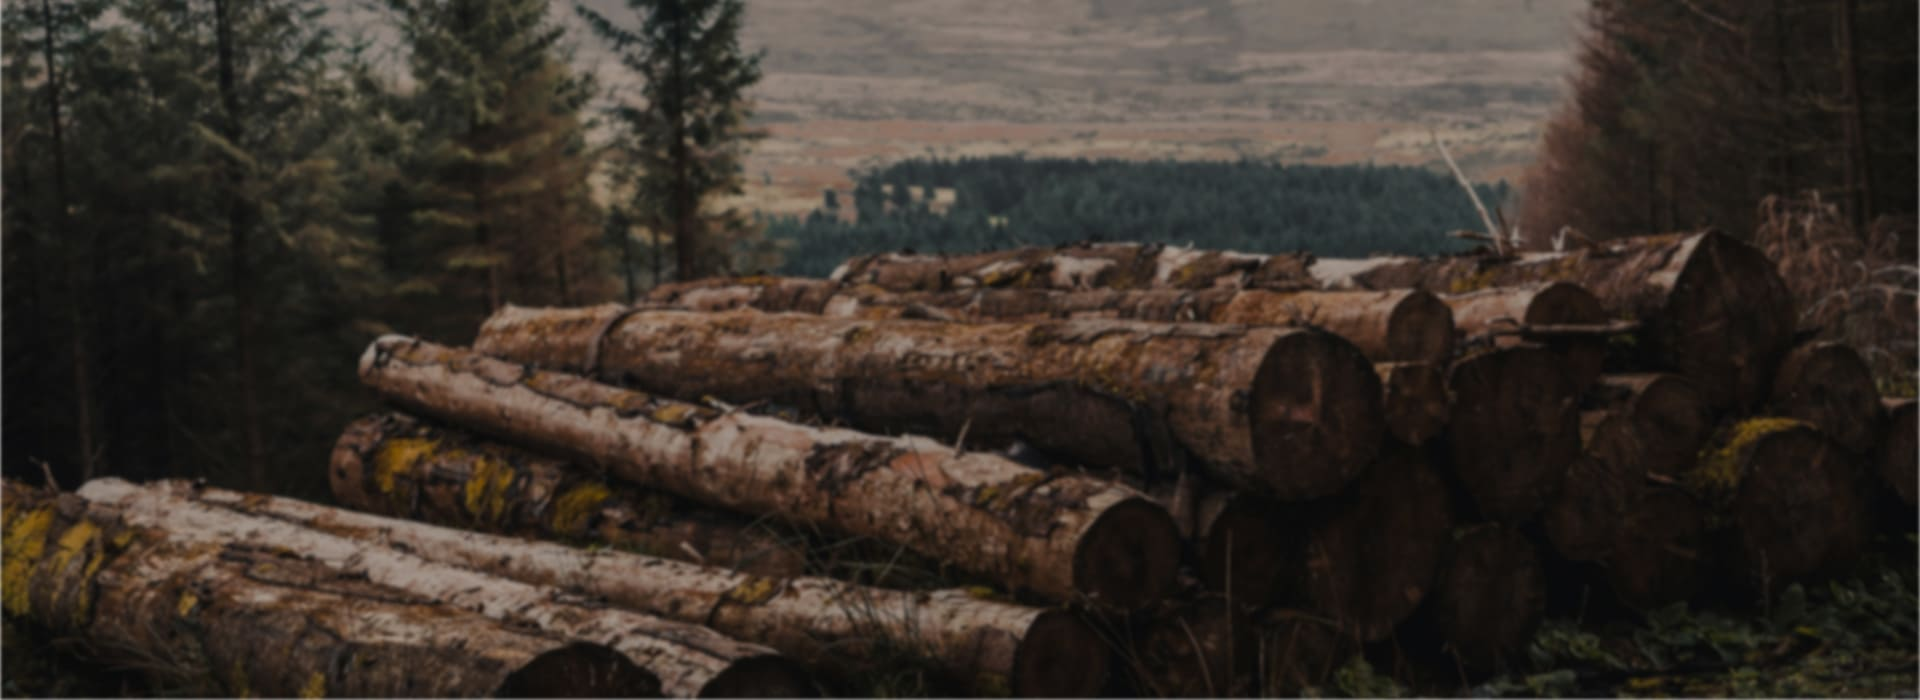
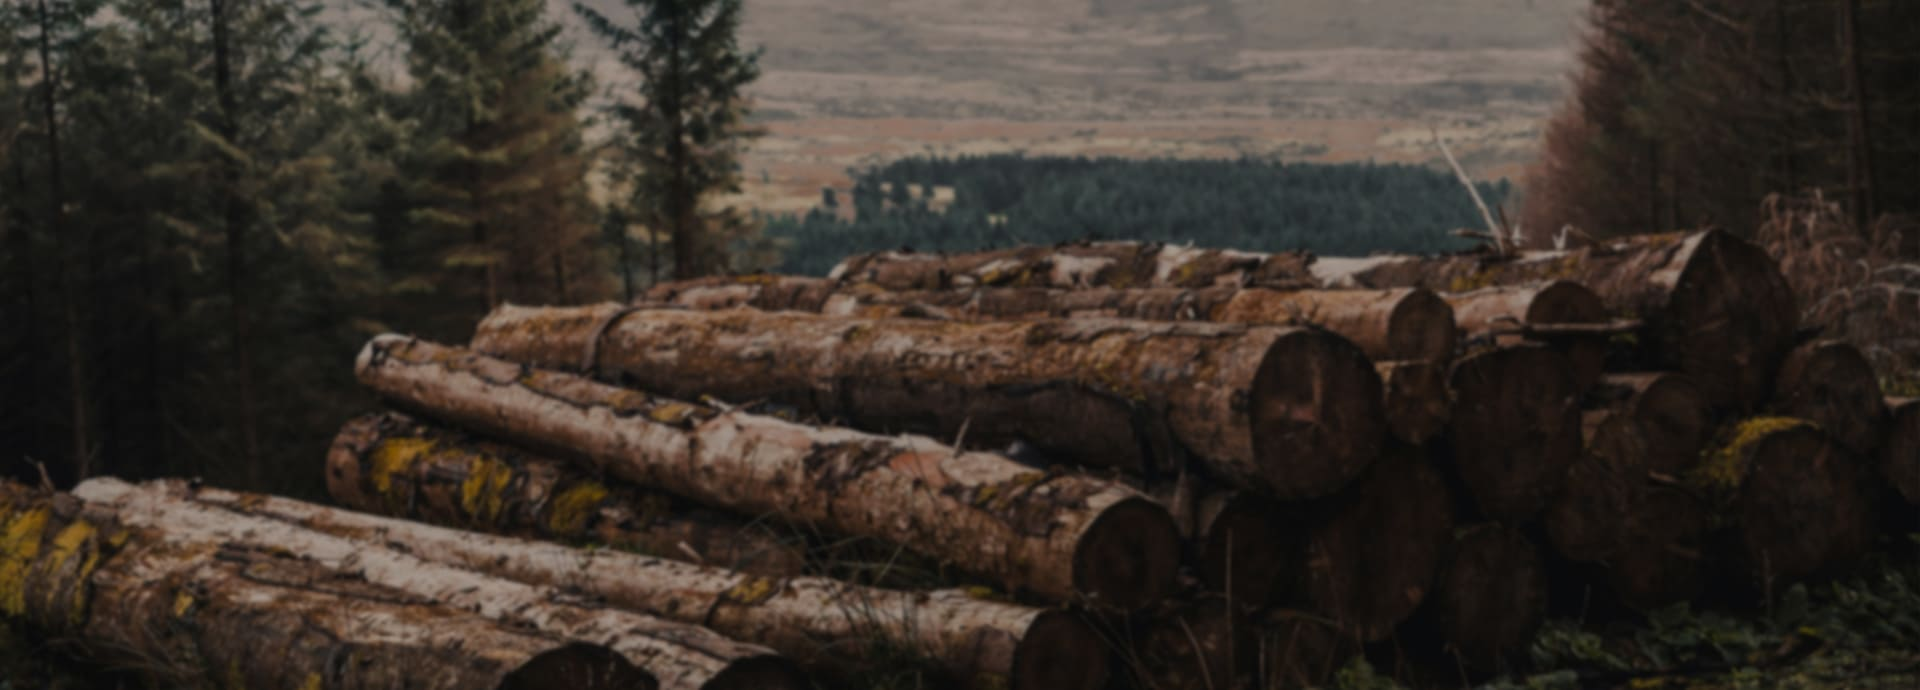
Optimizing image

diff --git a/Wooden.html b/Wooden.html
@@ -1,5 +1,6 @@
 <!DOCTYPE html>
 <html lang="en">
+
 <head>
     <meta charset="UTF-8">
     <meta name="viewport" content="width=device-width, initial-scale=1.0">
@@ -8,10 +9,12 @@
         crossorigin="anonymous" referrerpolicy="no-referrer" />
     <link rel="preconnect" href="https://fonts.googleapis.com">
     <link rel="preconnect" href="https://fonts.gstatic.com" crossorigin>
-    <link href="https://fonts.googleapis.com/css2?family=Montserrat:ital,wght@0,100..900;1,100..900&display=swap" rel="stylesheet">
+    <link href="https://fonts.googleapis.com/css2?family=Montserrat:ital,wght@0,100..900;1,100..900&display=swap"
+        rel="stylesheet">
     <title>Woodly</title>
     <link rel="stylesheet" href="style/styles.css">
 </head>
+
 <body>
     <header class="header">
         <div class="container">
@@ -34,28 +37,27 @@
     </header>
     <main>
         <section class="main">
-            <div class="container">
-                <div class="main__wrapper">
-                    <h1 class="main__text">Изделия из массива дерева</h1>
+                <div class="container">
+                    <div class="main__wrapper">
+                        <h1 class="main__text">Изделия из массива дерева</h1>
+                    </div>
+                    <div class="main__list">
+                        <img src="./img/factory.svg" alt="Производство" class="main__icon">
+                        <p class="main__txt">Собственное производство</p>
+                        <img src="./img/ecology.svg" alt="Экологические материалы" class="main__icon">
+                        <p class="main__txt">Экологические материалы</p>
+                        <img src="./img/calendar-clock.svg" alt="Сроки изготовления" class="main__icon">
+                        <p class="main__txt">Сроки изготовления</p>
+                    </div>
+                    <div class="main__btn">
+                        <button onclick="" class="catalog-button">Каталог</button>
+                    </div>
                 </div>
-                <div class="main__list">
-                    <img src="./img/factory.svg" alt="Производство" class="main__icon">
-                    <p class="main__txt">Собственное производство</p>
-                    <img src="./img/ecology.svg" alt="Экологические материалы" class="main__icon">
-                    <p class="main__txt">Экологические материалы</p>
-                    <img src="./img/calendar-clock.svg" alt="Сроки изготовления" class="main__icon">
-                    <p class="main__txt">Сроки изготовления</p>
-                </div>
-                <div class="main__btn">
-                    <button onclick="" class="catalog-button">Каталог</button>
-                </div>
-            </div>
         </section>
         <section class="cards">
             <div class="container">
                 <div class="cards__wrapper">
                     <h1>Каталог</h1>
-                    <h1>Акции</h1>
                 </div>
             </div>
         </section>

diff --git a/style/sections/main.css b/style/sections/main.css
@@ -1,7 +1,7 @@
 .main {
     padding-top: 140px;
     padding-bottom: 48px;
-    background-image: url(/img/Background.jpg);
+    background-image: url('https://i.ibb.co/WfqF1Qx/Background.jpg');
     background-size: cover;
     background-repeat: no-repeat;
     height: 100vh;
